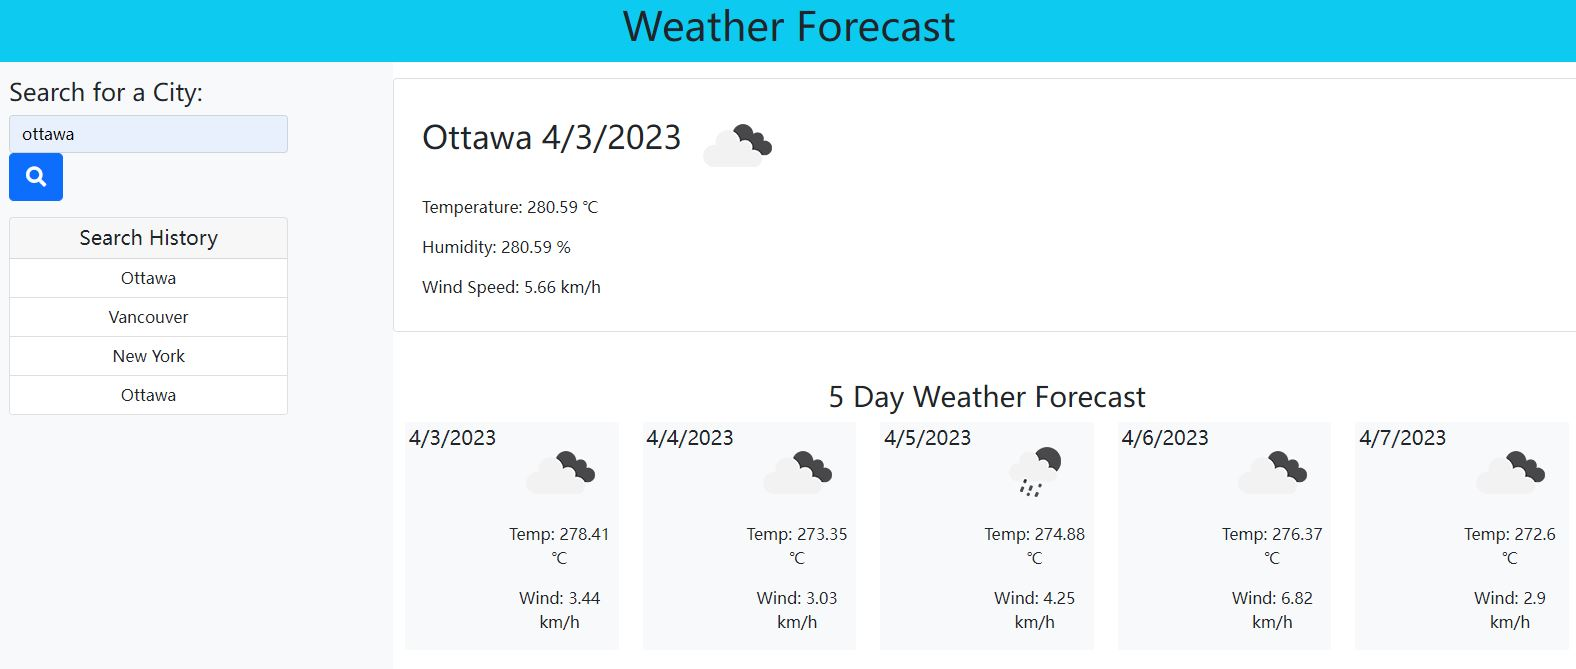
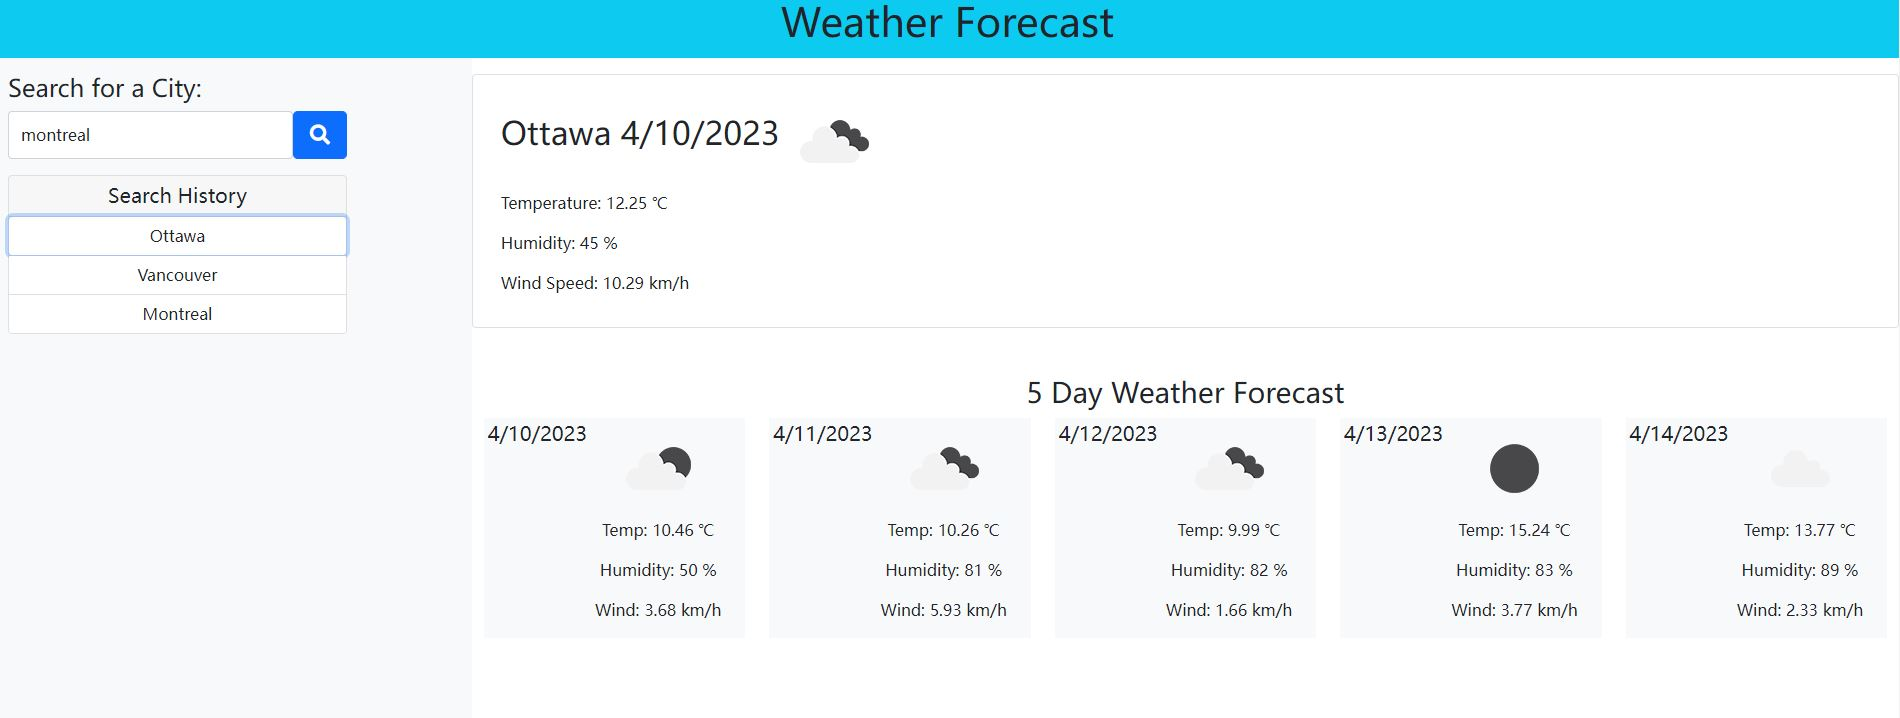
update readme

diff --git a/index.html b/index.html
@@ -35,9 +35,9 @@
 
                     <!--seatch section-->
                     <form class="form-group" id="search-city">
-                        <label for="city-name" class="h4">Search for a City:</label>
-                        <div class="form-inline">
-                            <input type="text" class="form-control w-75" id="city-input">
+                        <label for="city-name" class="h4 d-flex">Search for a City:</label>
+                        <div class="form-inline d-flex w-75">
+                            <input type="text" class="form-control" id="city-input">
                             <button type="submit" class="btn btn-primary btn-lg btn-block" id="search"><i class="fas fa-search"></i></button>
                         </div>
                         <p class="text-danger" id="error"></p>
